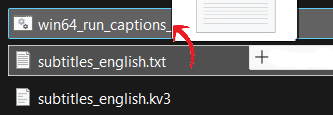
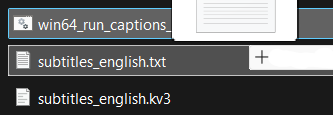
Remomed duplicate images

Changed region(s): [[0.5105, 0.2087, 0.6006, 0.6]]

diff --git a/docs/modding/captions/porting.md b/docs/modding/captions/porting.md
@@ -9,7 +9,7 @@ features:
 
 The new caption system does not read the old caption files. Instead, it requires a new caption file with a custom structure - `subtitles_*language*.kv3`.
 
-![KV3 caption file](kv3_file.png)
+![KV3 caption file](images/kv3_file.png)
 
 A converter script is made to port the regular captions to the new system. The script is located in `sdk_tools\panorama_captions_converter` as a Python file. Additionally, there are `.sh` drag-n-drop launcher for Linux and `.bat` for Windows. To port the captions, simply drag the `.txt` caption file onto `win64_run_captions_to_panorama.bat` or `linux_run_captions_to_panorama.sh`, and the new `.kv3` caption file will appear next to the original one.
 
@@ -18,6 +18,6 @@ If the script fails (i.e. syntax error in the original captions), it will show t
 > [!NOTE]
 > The converter only parses `.txt` files, it is not possible to convert `.dat` using it
 
-![Converter drag-n-drop support](converter.png)
+![Converter drag-n-drop support](images/converter.png)
 
 Then copy the converted caption file to `resources`. Done!
